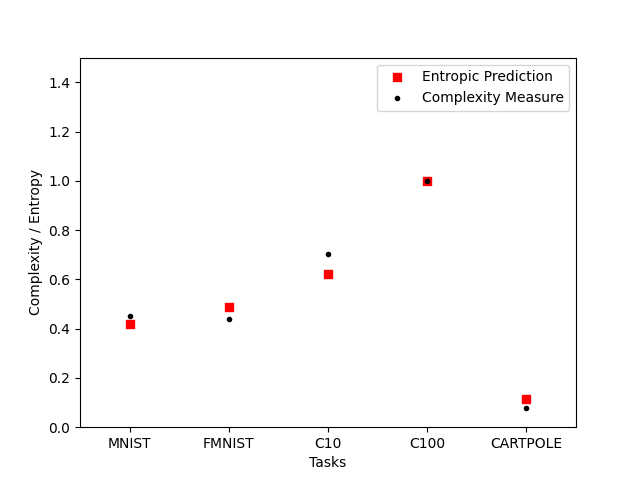
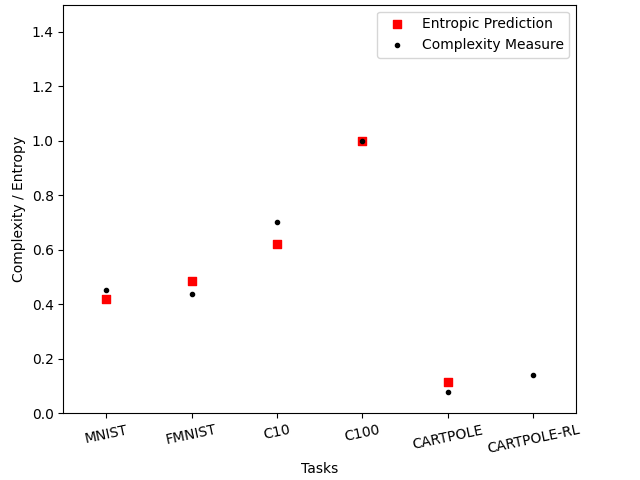
cartpole-rl stuff addded

diff --git a/dev/complexity/classifcation_exp/model_fit.py b/dev/complexity/classifcation_exp/model_fit.py
@@ -54,11 +54,11 @@ def area_under_curve(model, data):
 # Load data from data dir
 def load_data():
     # Number of files per model
-    file_num = 10
+    file_num = 3
     file_counter = 0
 
     # Get all file paths
-    data_path = './data_3/'
+    data_path = './cart_data/'
     file_names = [f for f in listdir(data_path) if isfile(join(data_path, f))]
 
     # Holds data
@@ -92,7 +92,8 @@ def load_data():
                     if datum[4] < 0.15:
                         continue
                 '''
-
+                if datum[4] == 200.0:
+                    continue
                 results[row[0]].append(datum)
 
         file_counter = file_counter + 1
@@ -111,6 +112,8 @@ def create_model(name, data_sample):
     # Use Trainable Parameters here
     y_data = []
 
+    print(len(data_sample))
+
     for i in data_sample:
         x_data.append(i[4])
         y_data.append(i[2])
@@ -125,9 +128,9 @@ def create_model(name, data_sample):
     y_data = np.log(y_data)
 
     # Do some hyper param searching here
-    parameters = {'kernel':['rbf', 'linear', 'poly'], 'C' :[0.0001, 0.01, 10, 100],
-                  'gamma': [0.00001,0.1, 10, 100], 'epsilon':[0.00001, 0.1, 10, 100]}
-    regressor = GridSearchCV(SVR(), parameters)
+    parameters = {'kernel': ['rbf', 'linear', 'poly'], 'C': [0.0001, 0.01, 10, 100],
+                  'gamma': [0.00001, 0.1, 10, 100], 'epsilon': [0.00001, 0.1, 10, 100]}
+    regressor = GridSearchCV(SVR(max_iter=100000), parameters)
 
     # Fit model
     regressor.fit(x_data, y_data)
@@ -172,6 +175,7 @@ def main():
     # Go through each inst of data
     for sample in data:
         for key in sample.keys():
+            print(key, sample[key])
             AuC = create_model(key, sample[key])
             log_results(key, AuC)
 

diff --git a/dev/complexity/classifcation_exp/entropy_plot.py b/dev/complexity/classifcation_exp/entropy_plot.py
@@ -3,7 +3,7 @@ import numpy as np
 import math
 
 # Generated from plot.py
-auc = [8.802, 8.513, 13.68, 19.466, 1.519]
+auc = [8.802, 8.513, 13.68, 19.466, 1.519, 2.7612]
 mse = [0.62, 0.64, 1.31, 0.75, 1.99]
 
 # Generated from entropy.py
@@ -31,8 +31,8 @@ mse = [float(i)/tmp for i in mse]
 print(auc)
 print(sum(auc))
 
-p = np.corrcoef(entropy, auc)
-print(p)
+#p = np.corrcoef(entropy, auc)
+#print(p)
 
 # Find SE from mse (RMSE functionally equaivalent to STDEV)
 standard_error = []
@@ -47,15 +47,18 @@ means = np.asarray(auc)
 #             fmt='.k', ecolor='black', lw=1, capsize=4, capthick=1)
 # Entropy points
 plt.scatter(np.arange(5), entropy, color='r', marker=',')
-plt.scatter(np.arange(5), means, color='black', marker='.')
+plt.scatter(np.arange(6), means, color='black', marker='.')
 
 # Formatting
 plt.legend(['Entropic Prediction', 'Complexity Measure'])
-plt.xlim(-0.5, 4.5)
-plt.xticks(np.arange(5), ["MNIST", "FMNIST", "C10", "C100", "CARTPOLE"])
+plt.xlim(-0.5, 5.5)
+plt.xticks(np.arange(6), ["MNIST", "FMNIST", "C10", "C100", "CARTPOLE", "CARTPOLE-RL"], rotation=12)
 plt.ylim(0, 1.5)
 plt.xlabel('Tasks')
 plt.ylabel('Complexity / Entropy')
 
+# Manuel editing needed to ensure x-label is not cutoff
+plt.show()
+
 # Save to file
-plt.savefig('Entropies.png')
+#plt.savefig('Entropies.png')
